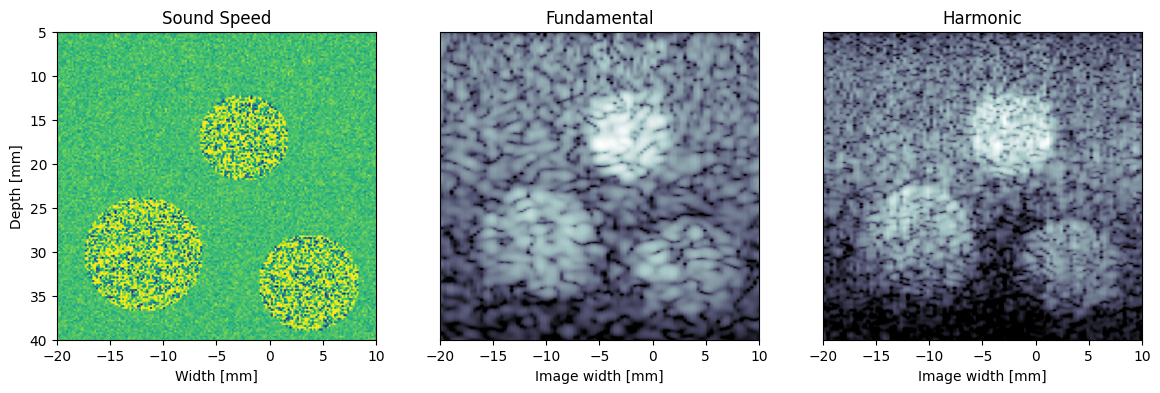
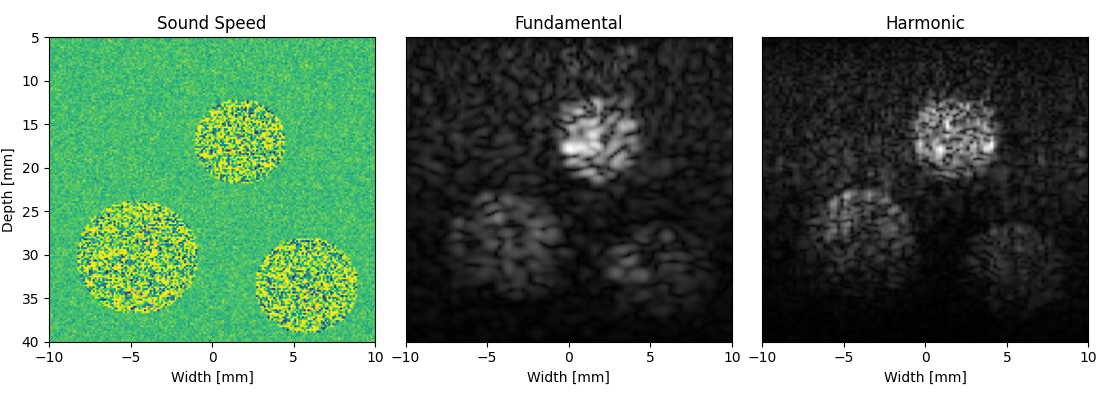
Incorrect image in read.md, clean up of gitignore, quality of life and consitency changes to us_bmode_linear_transducer.py

diff --git a/examples/us_bmode_linear_transducer/us_bmode_linear_transducer.py b/examples/us_bmode_linear_transducer/us_bmode_linear_transducer.py
@@ -27,7 +27,7 @@ PHANTOM_DATA_PATH = "phantom_data.mat"
 # simulation settings
 DATA_CAST = "single"
 RUN_SIMULATION = False
-
+SHOW_PLOT = True
 
 pml_size_points = Vector([20, 10, 10])  # [grid points]
 grid_size_points = Vector([256, 128, 128]) - 2 * pml_size_points  # [grid points]
@@ -233,7 +233,8 @@ x_axis = [0, image_size[0] * 1e3 * 1.1]  # [mm]
 y_axis = [-0.5 * image_size[1] * 1e3, 0.5 * image_size[1] * 1e3]  # [mm]
 
 # make plotting non-blocking
-plt.ion()
+if not SHOW_PLOT:
+    plt.ion()
 # Plot the data before and after scan conversion
 plt.figure(figsize=(14, 4))
 # plot the sound speed map
@@ -245,13 +246,8 @@ plt.ylabel("Depth [mm]")
 ax = plt.gca()
 ax.set_ylim(40, 5)
 plt.subplot(1, 3, 2)
-plt.imshow(
-    scan_lines_fund.T,
-    cmap="grey",
-    aspect="auto",
-    extent=[y_axis[0], y_axis[1], x_axis[1], x_axis[0]],
-)
-plt.xlabel("Image width [mm]")
+plt.imshow(scan_lines_fund.T, cmap="grey", aspect="auto", extent=[y_axis[0], y_axis[1], x_axis[1], x_axis[0]])
+plt.xlabel("Width [mm]")
 plt.title("Fundamental")
 ax = plt.gca()
 ax.set_ylim(40, 5)
@@ -259,10 +255,11 @@ plt.yticks([])
 plt.subplot(1, 3, 3)
 plt.imshow(scan_lines_harm.T, cmap="grey", aspect="auto", extent=[y_axis[0], y_axis[1], x_axis[1], x_axis[0]])
 plt.yticks([])
-plt.xlabel("Image width [mm]")
+plt.xlabel("Width [mm]")
 plt.title("Harmonic")
 ax = plt.gca()
 ax.set_ylim(40, 5)
+plt.tight_layout()
 plt.show()
 
 
